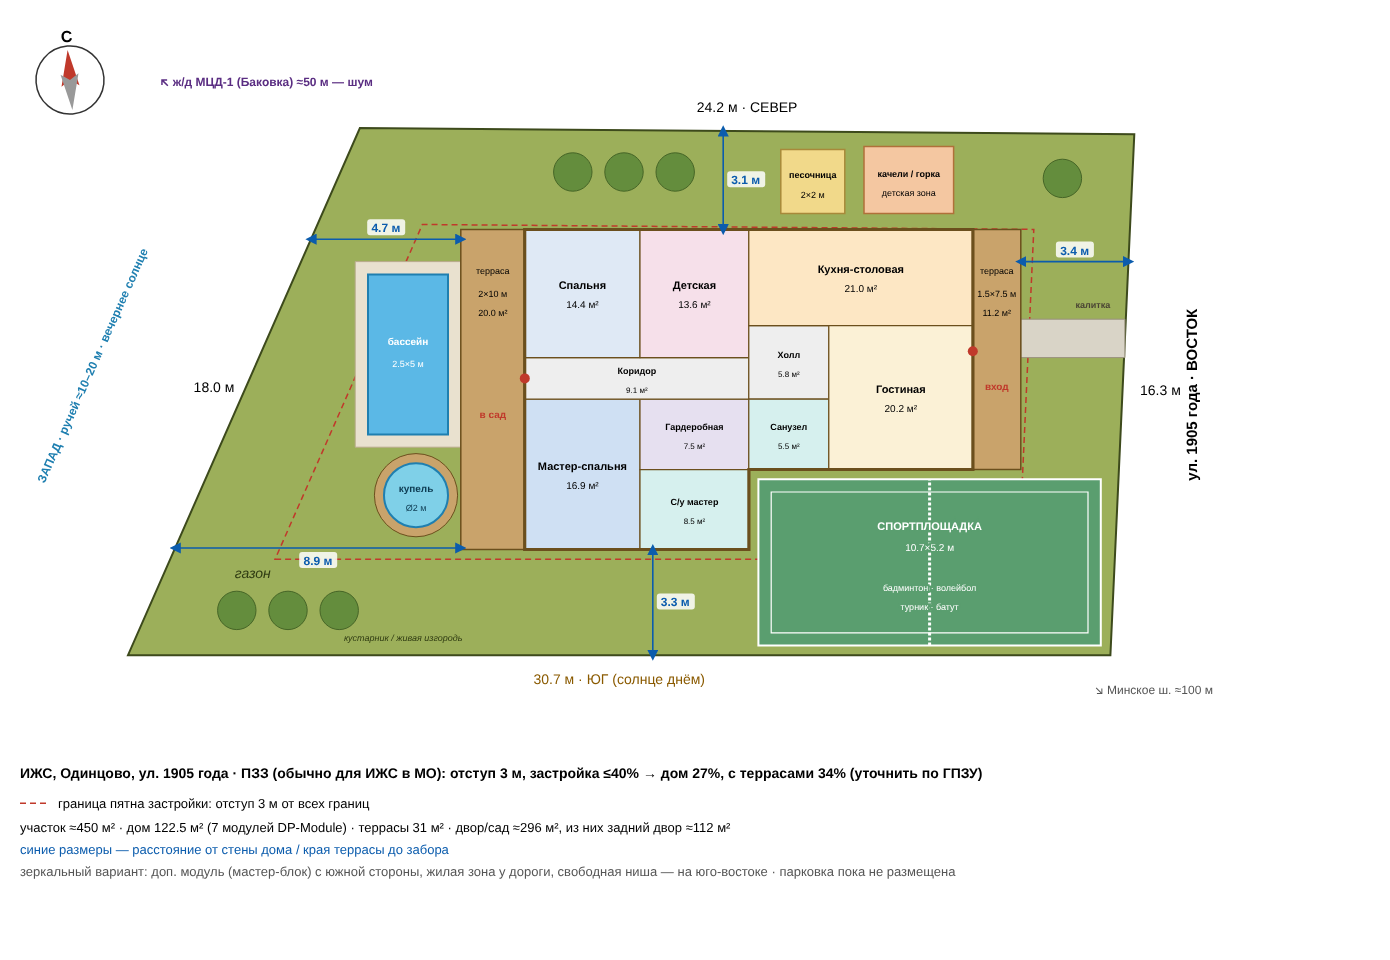
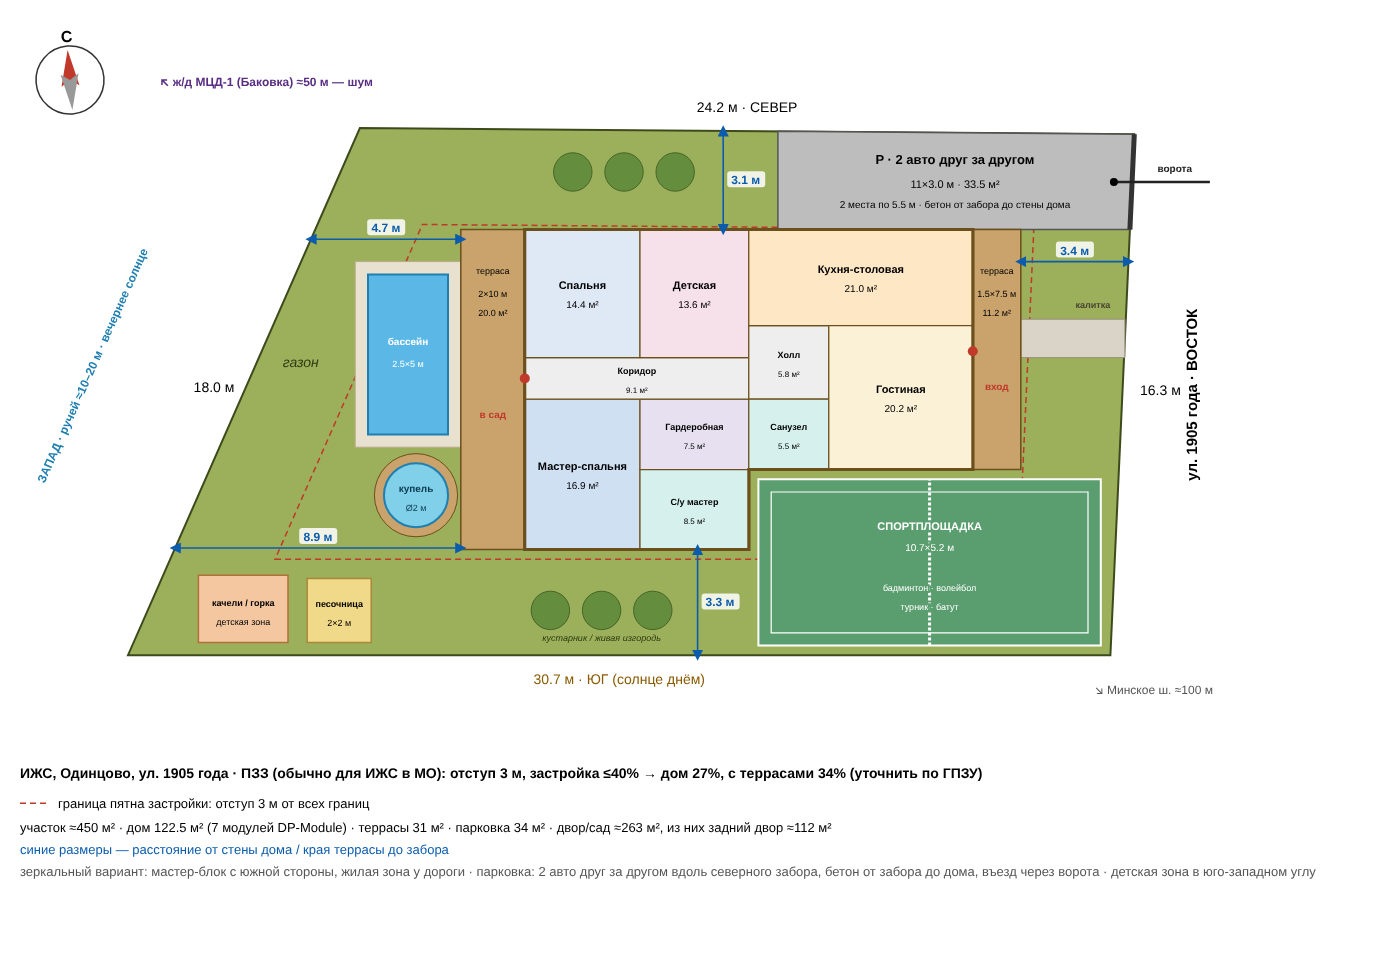
Парковка 2 авто друг за другом у северного забора, детская зона в юго-западный угол
- бетонная площадка от северного забора до стены дома, от ворот на улице:
  11 × 3.0 м (33.5 м²), 2 места по 5.5 м друг за другом, въезд через ворота
- песочница и качели/горка перенесены в юго-западный угол сада
- живая изгородь из этого угла — под окна мастер-спальни у южного забора

Claude-Session: https://claude.ai/code/session_017sgqLDmKspX4nF67YoQgaX

diff --git a/plan.py b/plan.py
@@ -1,4 +1,5 @@
-"""Быстрая модель размещения дома (~105 м²) на участке 4.5 сот. Зеркальный вариант: доп. модуль с южной стороны, парковку пока не ставим."""
+"""Быстрая модель размещения дома (~105 м²) и парковки на 2 машины на участке 4.5 сот.
+Зеркальный вариант: доп. модуль с южной стороны, парковка — 2 авто друг за другом вдоль северного забора."""
 import math
 import os
 import sys
@@ -162,6 +163,15 @@ def line_y_at_x(p, q, x):
     return p[1] + (q[1] - p[1]) * (x - p[0]) / (q[0] - p[0])
 
 
+# парковка: 2 авто друг за другом вдоль северного забора; бетон от забора до стены дома, от ворот на улице
+PARK_L = 11.0                                    # 2 места по 5.5 м
+park_y0 = HY0 + 10.0                             # северная стена дома (и край террасы у дороги)
+park_x1 = line_x_at_y(B, C, park_y0)             # ворота — в заборе у дороги
+park_x0 = park_x1 - PARK_L
+PARK = [(park_x0, park_y0), (park_x1, park_y0), C, (park_x0, line_y_at_x(C, D, park_x0))]
+PARK_W = min(C[1], line_y_at_x(C, D, park_x0)) - park_y0
+print(f"парковка {PARK_L:g} × {PARK_W:.2f} м = {area(PARK):.1f} м² (2 места по {PARK_L / 2:g} м друг за другом)")
+
 # ---------- SVG ----------
 xs = [p[0] for p in P]; ys = [p[1] for p in P]
 minx, maxx, miny, maxy = min(xs) - 4, max(xs) + 8, min(ys) - 4, max(ys) + 4
@@ -237,9 +247,9 @@ def ray_to_fence(p, d):
 
 
 DIMS = [  # (точка в координатах дома, направление[, подпись снизу]) — от стены/террасы до забора
-    ((-2.0, 0.05), (-1, 0), True),  # сад-терраса, низ
+    ((-2.0, 0.05), (-1, 0)),   # сад-терраса, низ
     ((-2.0, 9.7), (-1, 0)),    # сад-терраса, верх
-    ((4.0, 0.0), (0, -1)),     # мастер-блок -> нижний забор
+    ((5.4, 0.0), (0, -1)),     # мастер-блок -> нижний забор
     ((6.2, 10.0), (0, 1)),     # спальни -> верхний забор
     ((15.5, 9.0), (1, 0)),     # терраса у дороги -> забор у дороги
 ]
@@ -275,8 +285,8 @@ LEISURE = {
     "pool": (-4.9, 3.6, -2.4, 8.6),      # бассейн 2.5 × 5 м у садовой террасы
     "tub": (-3.4, 1.7, 1.0),             # купель Ø2 м у мастер-спальни (центр X, Y, радиус)
     "sport": (7.3, -3.0, 18.0, 2.2),     # спортплощадка в нише на юго-востоке (под гостиной/санузлом)
-    "sand": (8.0, 10.5, 10.0, 12.5),     # песочница 2 × 2 м под окнами кухни
-    "swing": (10.6, 10.5, 13.4, 12.6),   # качели/горка
+    "sand": (-6.8, -2.9, -4.8, -0.9),    # песочница 2 × 2 м — в юго-западном углу сада
+    "swing": (-10.2, -2.9, -7.4, -0.8),  # качели/горка — там же
     "path": (15.5, 6.0, 19.9, 7.2),      # дорожка от калитки ко входу
 }
 HX0 = xe - HOUSE_L  # x торца дома в саду
@@ -289,9 +299,10 @@ x0, y0_, x1, y1 = LEISURE["path"]
 LS.append(lrect_svg(x0, y0_, x1, y1, fill="#d9d4c7", stroke="#9a927e", stroke_width=1))
 gx, gy = local(x1 - 0.4, (y0_ + y1) / 2)
 LS.append(text(local(x1 - 1.0, y1 + 0.35), "калитка", 9, fill="#4a4434", font_weight="bold"))
-# кустарник / живая изгородь: у южного забора в саду и у северного под спальнями (высокие деревья — не ближе 4 м к соседу)
-SHRUBS = [(-9.0, -1.9, 0.6), (-7.4, -1.9, 0.6), (-5.8, -1.9, 0.6), (1.5, 11.8, 0.6), (3.1, 11.8, 0.6),
-          (4.7, 11.8, 0.6), (16.8, 11.6, 0.6)]
+# кустарник / живая изгородь: у южного забора под мастер-спальней и у северного под спальнями
+# (высокие деревья — не ближе 4 м к соседу)
+SHRUBS = [(0.8, -1.9, 0.6), (2.4, -1.9, 0.6), (4.0, -1.9, 0.6), (1.5, 11.8, 0.6), (3.1, 11.8, 0.6),
+          (4.7, 11.8, 0.6)]
 for X, Y, r in SHRUBS:
     cx, cy = sv(local(X, Y))
     LS.append(f'<circle cx="{cx:.1f}" cy="{cy:.1f}" r="{r * SC:.1f}" fill="#5f8a3a" stroke="#3d5e22" stroke-width="1" opacity="0.9"/>')
@@ -334,7 +345,7 @@ for k, v in LEISURE.items():
     poly = lrect(v[0] - v[2], v[1] - v[2], v[0] + v[2], v[1] + v[2]) if k == "tub" else lrect(*v)
     ok_in = all(inside(P, c) for c in poly)
     hits = [i for i, b in enumerate(_house_blocks) if overlap(b, poly, 0.0)] if k != "path" else []
-    print(f"{k}: внутри участка={ok_in}, пересечения с домом/террасами={hits}, "
+    print(f"{k}: внутри участка={ok_in}, пересечения с домом/террасами={hits}, с парковкой={overlap(PARK, poly)}, "
           f"мин. до забора={min(min(dist_to_line_any(c) for c in poly) for _ in [0]):.2f} м")
 
 def clip_left(poly, xl):
@@ -354,7 +365,7 @@ BACKYARD = area(clip_left(P, xe - HOUSE_L - 2.0))
 print(f"задний двор (западнее садовой террасы): {BACKYARD:.0f} м²")
 
 TERR_AREA = sum(abs((t[3] - t[1]) * (t[4] - t[2])) for t in TERRACES)
-FREE = area(P) - HOUSE_AREA - TERR_AREA
+FREE = area(P) - HOUSE_AREA - TERR_AREA - area(PARK)
 
 W, H = (maxx - minx) * SC, (maxy - miny) * SC + 112
 el = [
@@ -362,11 +373,15 @@ el = [
     f'<rect width="100%" height="100%" fill="#fff"/>',
     poly_svg(P, fill="#9caf5a", stroke="#3d4a1c", stroke_width=2),
     poly_svg(BUILD, fill="none", stroke="#c0392b", stroke_width=1.5, stroke_dasharray="6 4"),
+    poly_svg(PARK, fill="#bdbdbd", stroke="#555", stroke_width=1.5),
     '<defs><marker id="arr" viewBox="0 0 10 10" refX="5" refY="5" markerWidth="7" markerHeight="7" orient="auto-start-reverse">'
     '<path d="M0,0 L10,5 L0,10 z" fill="#0b5cad"/></marker></defs>',
     *LS,
     *ROOMS_SVG,
     *DIM_SVG,
+    text((centroid(PARK)[0], centroid(PARK)[1] + 0.55), "P · 2 авто друг за другом", 13, font_weight="bold"),
+    text((centroid(PARK)[0], centroid(PARK)[1] - 0.2), f"{PARK_L:g}×{PARK_W:.1f} м · {area(PARK):.1f} м²", 11),
+    text((centroid(PARK)[0], centroid(PARK)[1] - 0.85), f"2 места по {PARK_L / 2:g} м · бетон от забора до стены дома", 10),
     text(mid(A, B, -0.9), f"{AB} м · ЮГ (солнце днём)", 14, fill="#8a5a00"),
     text(mid(C, D, 0.6), f"{CD} м · СЕВЕР", 14),
     text(mid(D, A, 0), f"{DA} м", 14, transform=""),
@@ -374,8 +389,15 @@ el = [
 ]
 mx, my = sv(mid(D, A)); el[-2] = f'<text x="{mx-30:.1f}" y="{my:.1f}" font-size="14" text-anchor="middle" font-family="sans-serif">{DA} м</text>'
 mx, my = sv(mid(B, C)); el[-1] = f'<text x="{mx+38:.1f}" y="{my:.1f}" font-size="14" text-anchor="middle" font-family="sans-serif">{BC} м</text><text x="{mx+75:.1f}" y="{my:.1f}" font-size="15" font-weight="bold" text-anchor="middle" font-family="sans-serif" transform="rotate(-90 {mx+75:.1f} {my:.1f})">ул. 1905 года · ВОСТОК</text>'
-el.append(text((3.9, 2.4), "газон", 14, fill="#2f3b12", font_style="italic"))
-el.append(text((8.6, 0.45), "кустарник / живая изгородь", 9, fill="#2f3b12", font_style="italic"))
+# ворота и въезд с улицы
+gy = (park_y0 + C[1]) / 2
+g1, g2 = sv((park_x1, park_y0)), sv(C)
+el.append(f'<line x1="{g1[0]:.1f}" y1="{g1[1]:.1f}" x2="{g2[0]:.1f}" y2="{g2[1]:.1f}" stroke="#333" stroke-width="5"/>')
+e1 = sv((park_x1 + 2.5, gy)); e2 = sv((park_x1 - 0.5, gy))
+el.append(f'<line x1="{e1[0]:.1f}" y1="{e1[1]:.1f}" x2="{e2[0]:.1f}" y2="{e2[1]:.1f}" stroke="#222" stroke-width="2.5"/><circle cx="{e2[0]:.1f}" cy="{e2[1]:.1f}" r="4"/>')
+el.append(text((park_x1 + 1.4, gy + 0.3), "ворота", 10, fill="#222", font_weight="bold"))
+el.append(text((5.4, 9.0), "газон", 14, fill="#2f3b12", font_style="italic"))
+el.append(text((local(2.4, 0)[0], 0.45), "кустарник / живая изгородь", 9, fill="#2f3b12", font_style="italic"))
 
 # ---------- стороны света и окружение (по Яндекс.Картам: участок на западной стороне ул. 1905 года) ----------
 NORTH_DEG = -4.6  # север повёрнут на ~5° против часовой от «верха» схемы (по направлению улицы)
@@ -396,10 +418,10 @@ y0 = (maxy - miny) * SC + 25
 el.append(f'<rect x="20" y="{y0-12}" width="28" height="0" stroke="#c0392b" stroke-dasharray="6 4" stroke-width="1.5"/>')
 el.append(f'<line x1="20" y1="{y0-5}" x2="50" y2="{y0-5}" stroke="#c0392b" stroke-dasharray="6 4" stroke-width="1.5"/>')
 el.append(f'<text x="58" y="{y0}" font-size="13" font-family="sans-serif">граница пятна застройки: отступ {SETBACK:g} м от всех границ</text>')
-el.append(f'<text x="20" y="{y0+24}" font-size="13" font-family="sans-serif">участок ≈{area(P):.0f} м² · дом {HOUSE_AREA:.1f} м² (7 модулей DP-Module) · террасы {TERR_AREA:.0f} м² · двор/сад ≈{FREE:.0f} м², из них задний двор ≈{BACKYARD:.0f} м²</text>')
+el.append(f'<text x="20" y="{y0+24}" font-size="13" font-family="sans-serif">участок ≈{area(P):.0f} м² · дом {HOUSE_AREA:.1f} м² (7 модулей DP-Module) · террасы {TERR_AREA:.0f} м² · парковка {area(PARK):.0f} м² · двор/сад ≈{FREE:.0f} м², из них задний двор ≈{BACKYARD:.0f} м²</text>')
 el.append(f'<text x="20" y="{y0-30}" font-size="14" font-weight="bold" font-family="sans-serif">ИЖС, Одинцово, ул. 1905 года · ПЗЗ (обычно для ИЖС в МО): отступ 3 м, застройка ≤40% → дом {HOUSE_AREA/area(P)*100:.0f}%, с террасами {(HOUSE_AREA+TERR_AREA)/area(P)*100:.0f}% (уточнить по ГПЗУ)</text>')
 el.append(f'<text x="20" y="{y0+46}" font-size="13" fill="#0b5cad" font-family="sans-serif">синие размеры — расстояние от стены дома / края террасы до забора</text>')
-el.append(f'<text x="20" y="{y0+68}" font-size="13" fill="#555" font-family="sans-serif">зеркальный вариант: доп. модуль (мастер-блок) с южной стороны, жилая зона у дороги, свободная ниша — на юго-востоке · парковка пока не размещена</text>')
+el.append(f'<text x="20" y="{y0+68}" font-size="13" fill="#555" font-family="sans-serif">зеркальный вариант: мастер-блок с южной стороны, жилая зона у дороги · парковка: 2 авто друг за другом вдоль северного забора, бетон от забора до дома, въезд через ворота · детская зона в юго-западном углу</text>')
 el.append("</svg>")
 open("plan.svg", "w").write("\n".join(el))
 
@@ -427,6 +449,7 @@ scene = {
     "north_deg": NORTH_DEG,
     "house": {"x0": local(0, 0)[0], "y0": local(0, 0)[1], "outline": OUTLINE, "rooms": ROOMS, "blocks": HOUSE_BLOCKS},
     "terraces": [list(t) for t in TERRACES],
+    "parking": [list(p) for p in PARK],
     "doors": DOORS,
     "leisure": LEISURE,
     "shrubs": SHRUBS,
